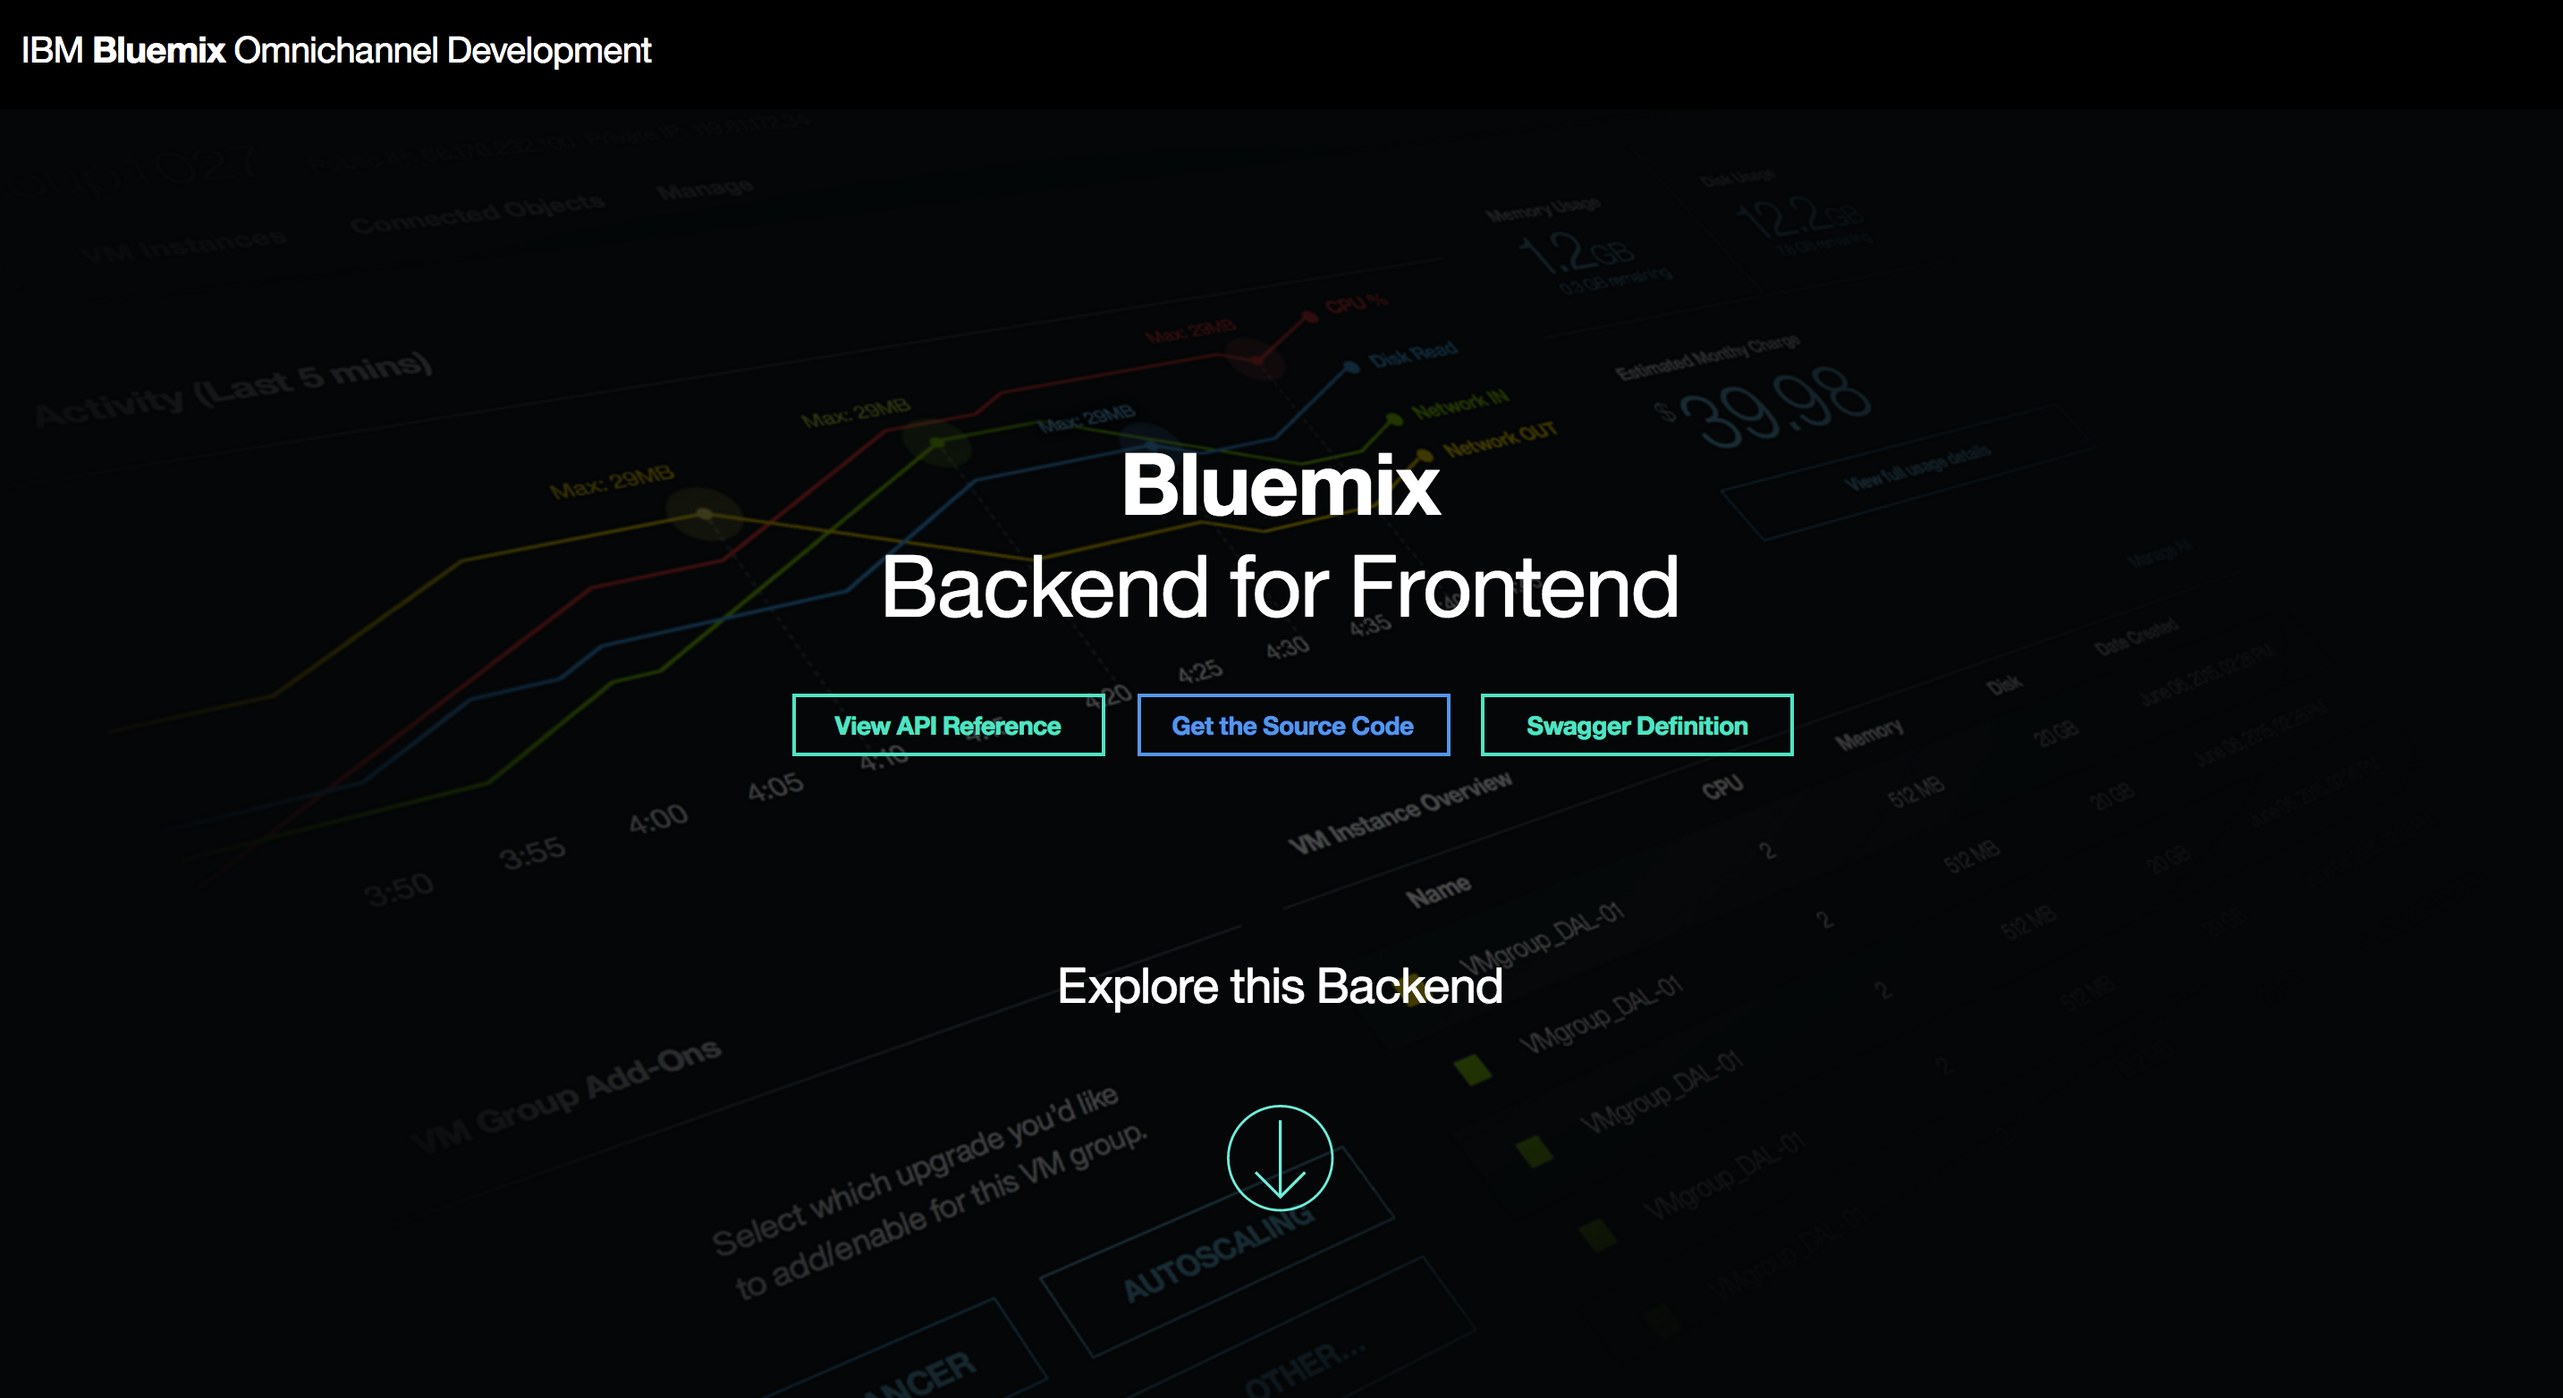
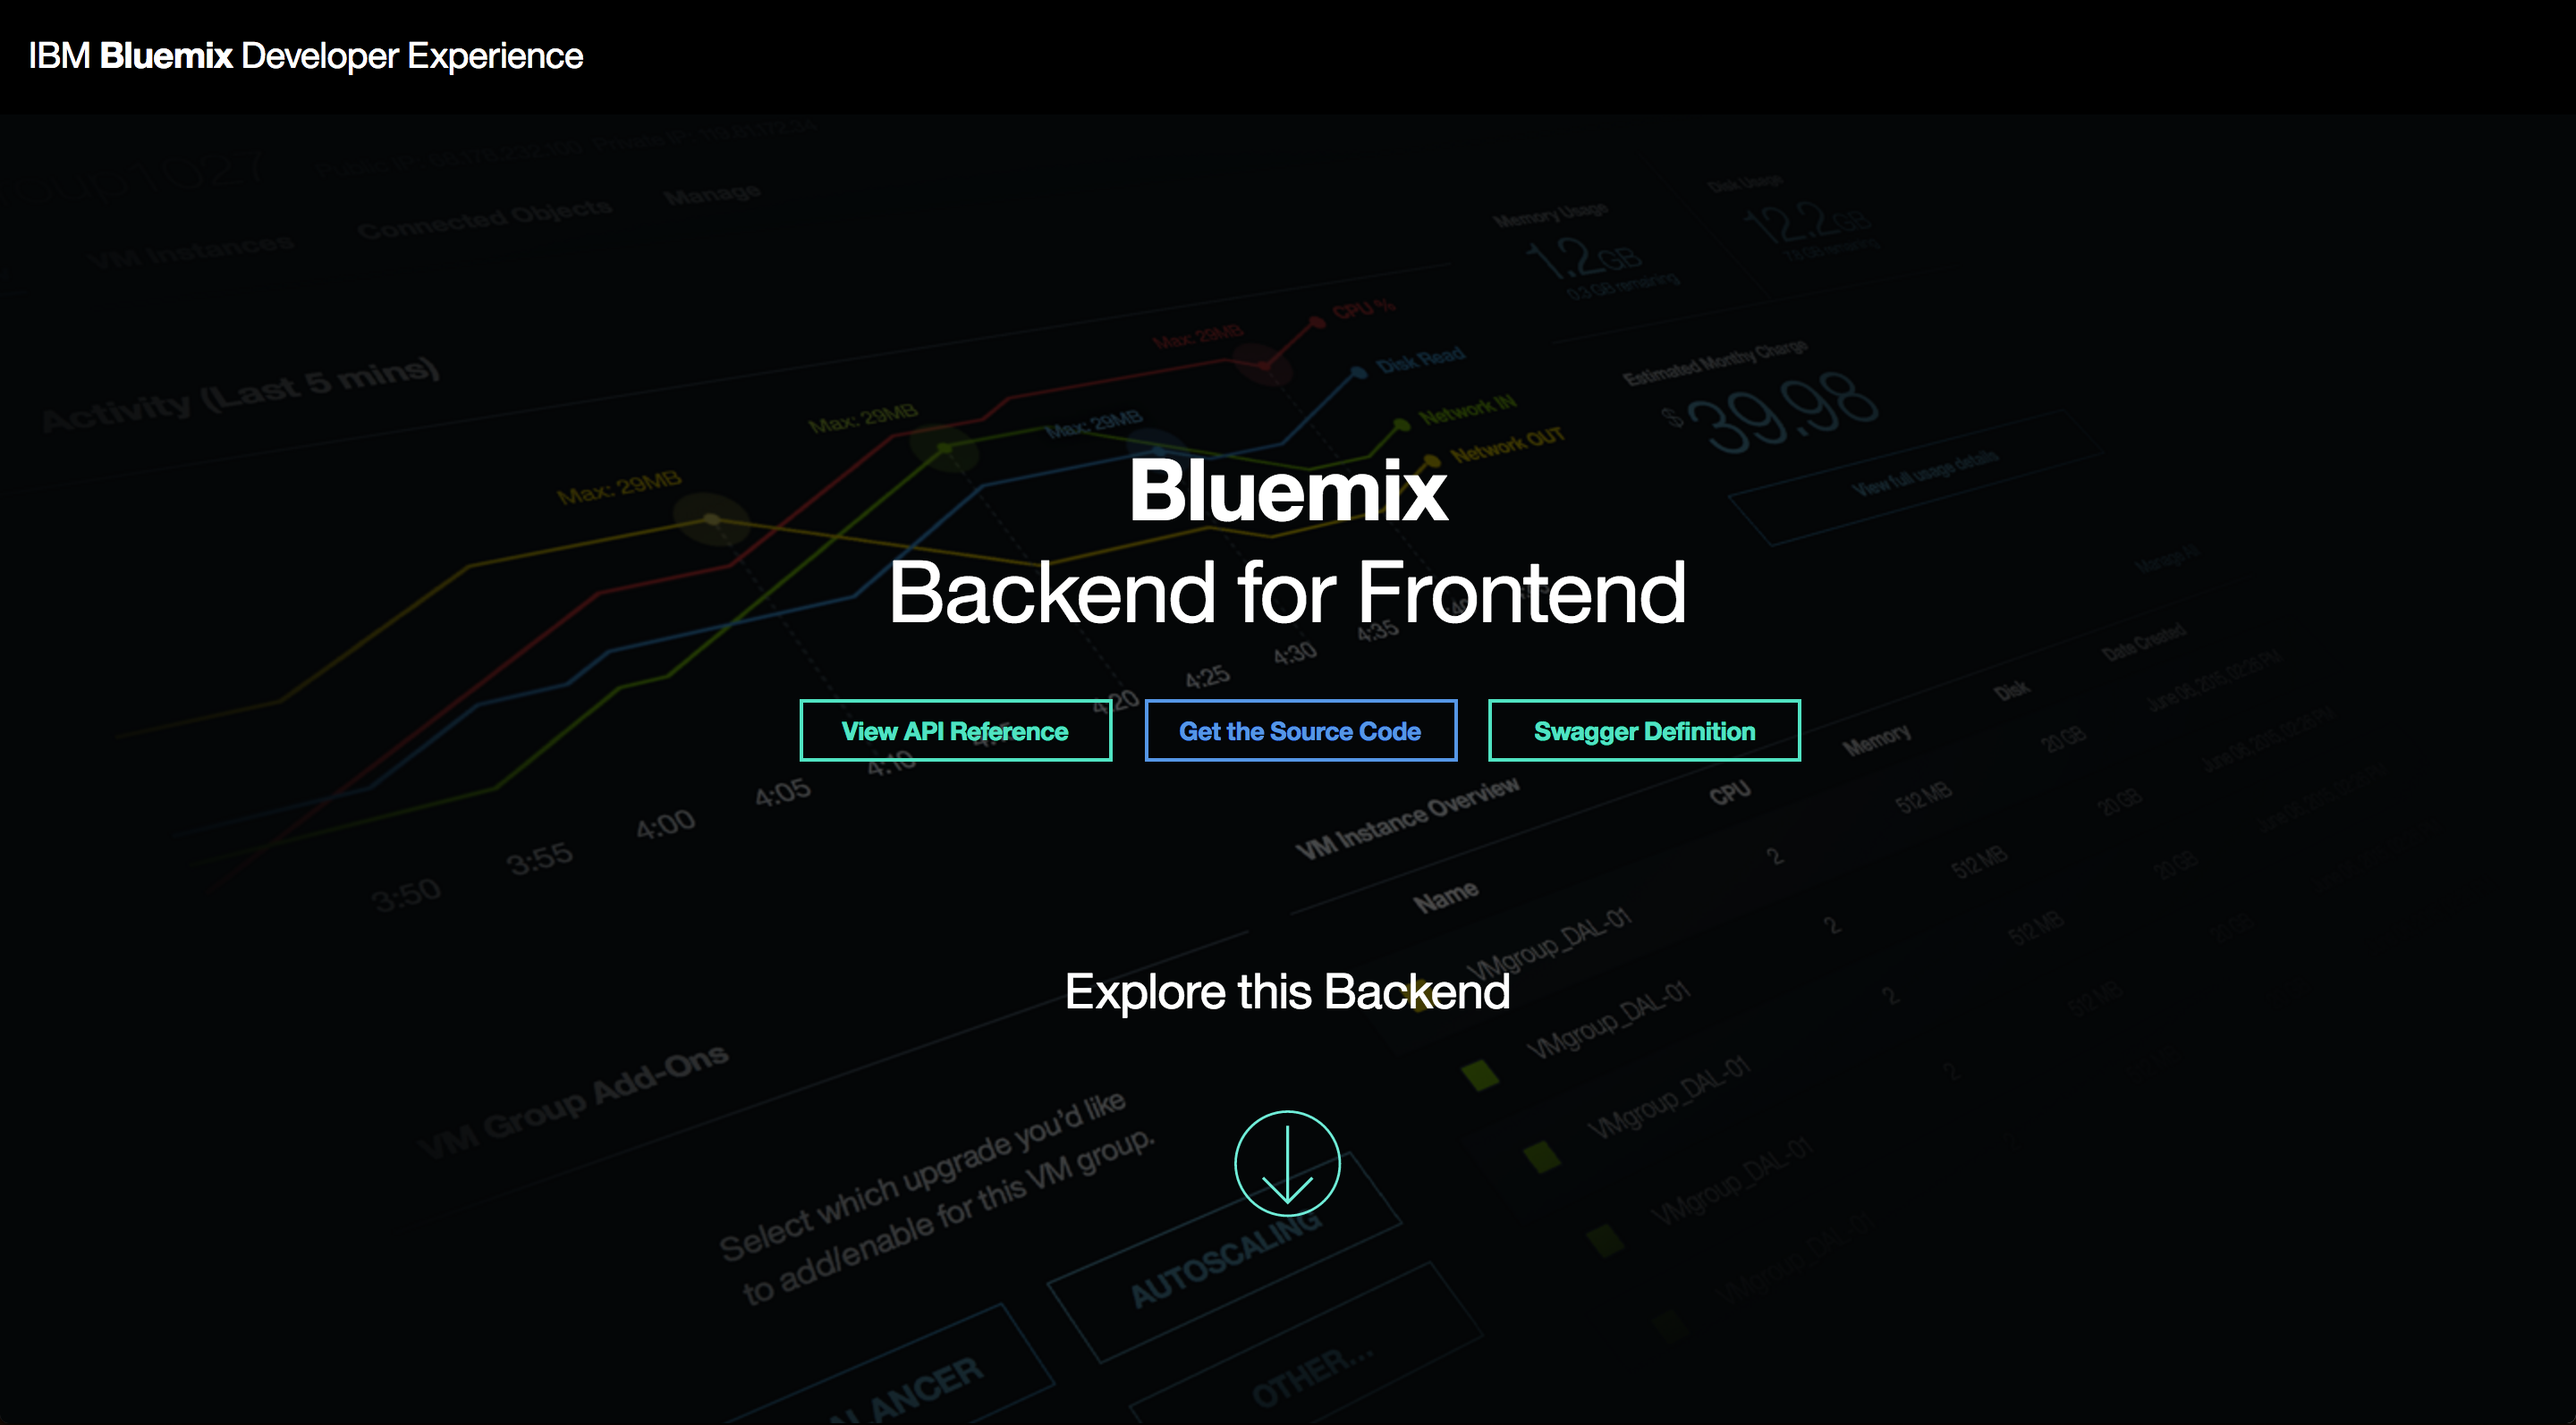
Omnichannel to DevEx

diff --git a/template/client/index.html b/template/client/index.html
@@ -12,7 +12,7 @@
 	<body>
 		<header class="design-guide__header">
 			<div class="header__logo">
-				<a id="header__logo--top" href="/" ><h3>IBM <span class="header__logo--bold">Bluemix</span> Omnichannel Development</h3></a>
+				<a id="header__logo--top" href="/" ><h3>IBM <span class="header__logo--bold">Bluemix</span> Developer Experience</h3></a>
 			</div> <!-- .header__logo -->
 		</header>
 
